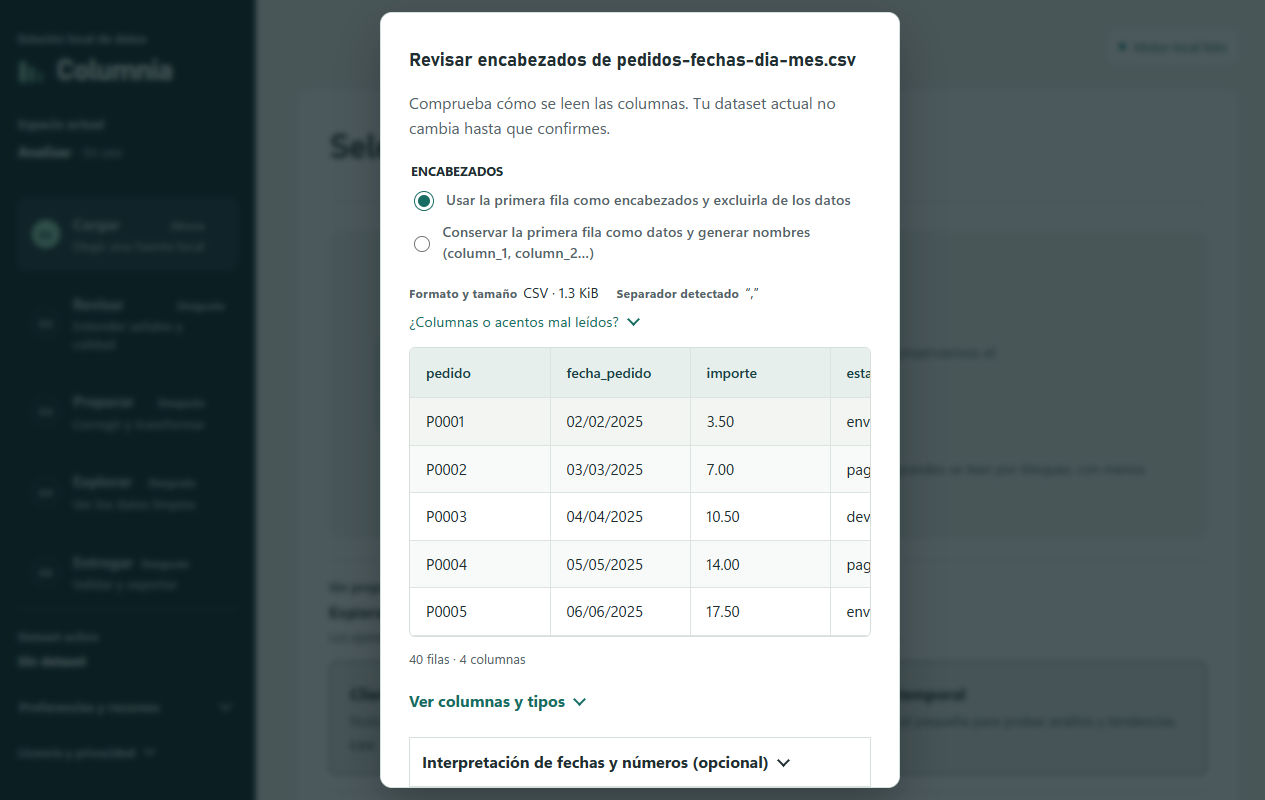
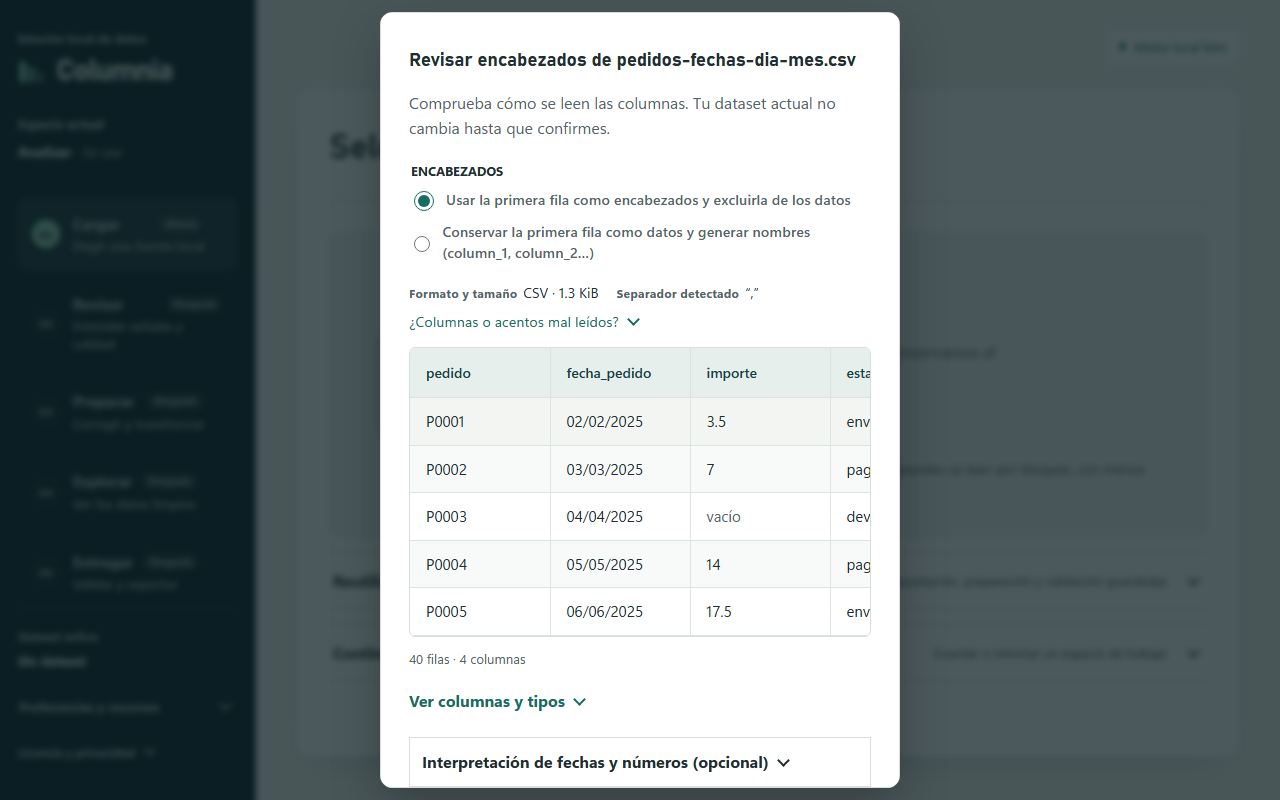
Galería rehecha con la interfaz actual y acabado visual en el CHANGELOG
Las once capturas y el GIF del recorrido salen de la interfaz servida por
Vite con el simulador de Tauri de los E2E y datos sintéticos (la sonda CDP
no expuso el puerto de depuración en la sesión elevada).

diff --git a/CHANGELOG.md b/CHANGELOG.md
@@ -1056,6 +1056,19 @@ hasta el corte, y los perfiles de publicación exigen crear antes la sección
 
 ### Mejorado
 
+- Acabado visual del flujo:
+  - el estado de cada paso de la barra lateral es una pastilla y «Revisar de
+    nuevo» va contorneado;
+  - la superficie de trabajo se eleva un poco en los temas claros;
+  - el archivo activo lleva un icono de documento;
+  - solo la pestaña activa se subraya, con el color de acento;
+  - las celdas sin valor dicen «vacío» y los números de la vista previa se
+    alinean a la derecha;
+  - un gráfico de categorías suelto ocupa la fila entera en Explorar;
+  - «Continuar» atenuado en Preparar ya no parece deshabilitado y un botón
+    secundario deshabilitado sí lo parece.
+
+  La galería de `docs/images/gallery/` se rehízo con la interfaz actual.
 - Al final del análisis de calidad de un archivo grande, la tendencia temporal
   y las correlaciones se calculan a la vez, las fechas de cada bloque se leen
   en paralelo y la barra avanza con las filas leídas; el conteo de valores
